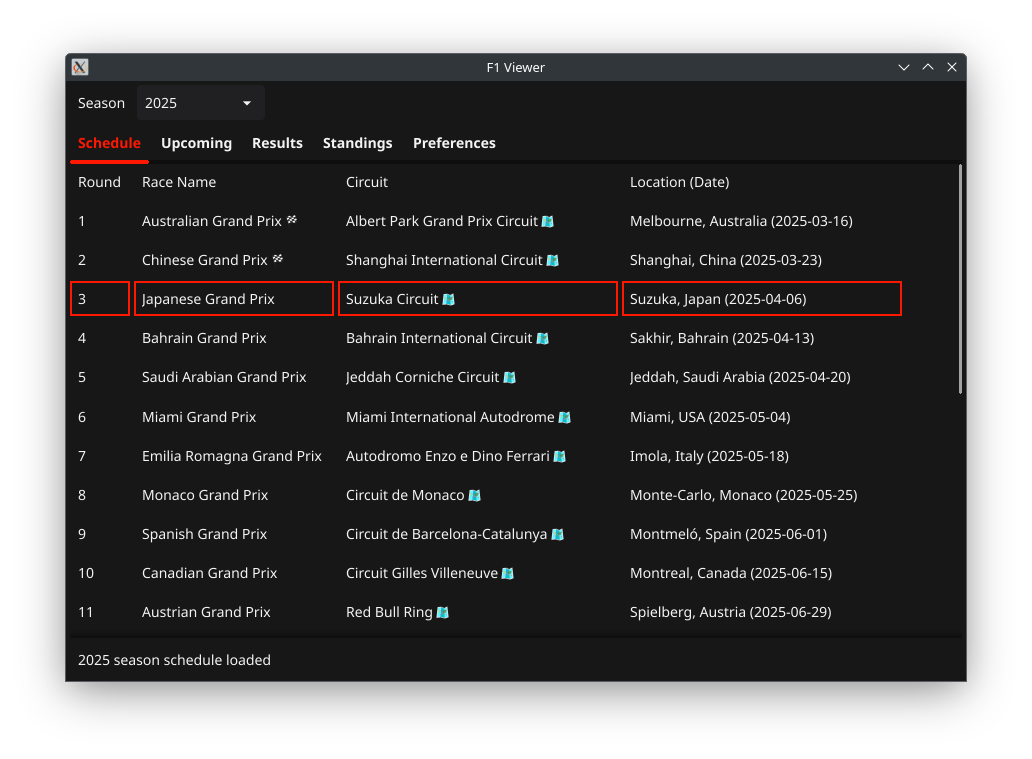
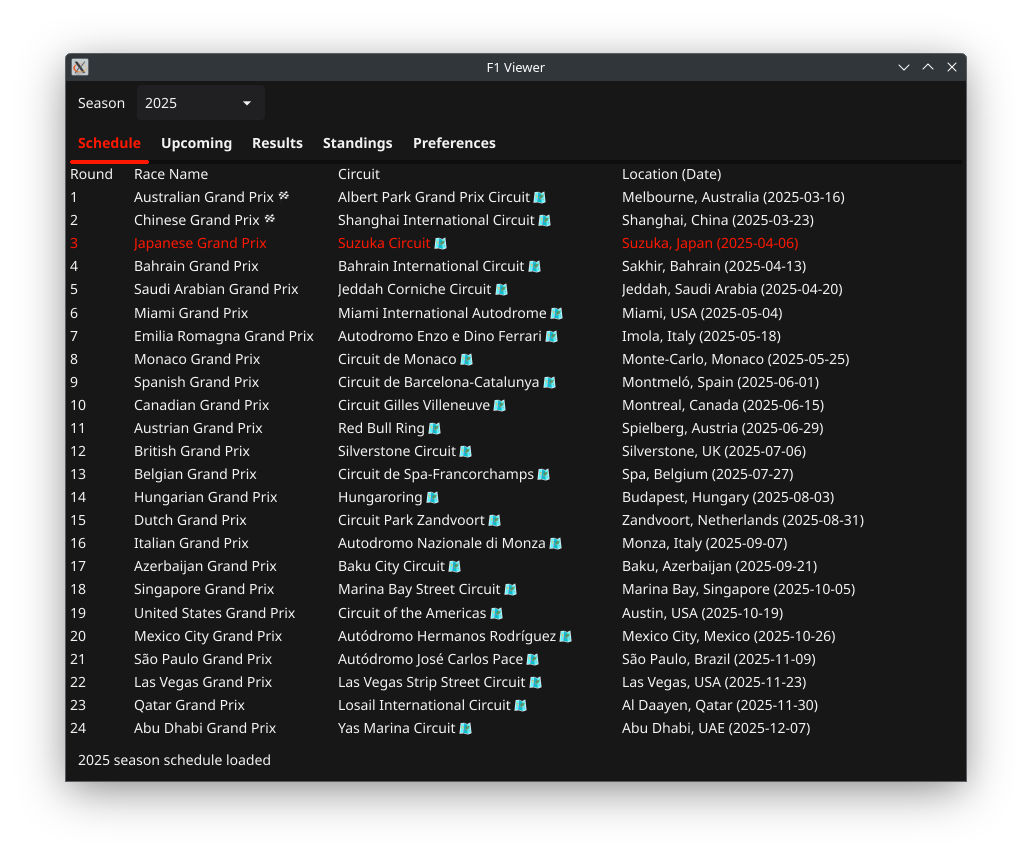
Fixed window size Removed theming from Watch on F1TV button Updated changelog and notes for v0.3.0

diff --git a/internal/ui/tabs/upcoming_tab.go b/internal/ui/tabs/upcoming_tab.go
@@ -3,7 +3,6 @@ package tabs
 import (
 	"encoding/json"
 	"fmt"
-	"image/color"
 	"time"
 
 	"github.com/mphartzheim/f1tray/internal/models"
@@ -11,7 +10,6 @@ import (
 	"github.com/mphartzheim/f1tray/internal/ui"
 
 	"fyne.io/fyne/v2"
-	"fyne.io/fyne/v2/canvas"
 	"fyne.io/fyne/v2/container"
 	"fyne.io/fyne/v2/layout"
 	"fyne.io/fyne/v2/theme"
@@ -30,21 +28,11 @@ func CreateUpcomingTab(state *models.AppState, parseFunc func([]byte) (string, [
 	url := fmt.Sprintf(models.UpcomingURL, year)
 
 	// Create the button for F1TV.
-	button := widget.NewButton("Watch on F1TV", func() {
+	watchButton := widget.NewButton("Watch on F1TV", func() {
 		if err := processes.OpenWebPage(models.F1tvURL); err != nil {
 			status.SetText("Failed to open F1TV URL.")
 		}
 	})
-
-	// Create a rounded rectangle overlay using canvas.NewRectangle.
-	// (This overlay is still used on the watch button.)
-	rect := canvas.NewRectangle(color.Transparent)
-	rect.StrokeColor = theme.Current().Color(theme.ColorNamePrimary, fyne.CurrentApp().Settings().ThemeVariant())
-	rect.StrokeWidth = 4
-	rect.CornerRadius = 5
-
-	// Overlay the rectangle on top of the button using container.NewStack.
-	watchButton := container.NewStack(button, rect)
 
 	refresh := func() bool {
 		data, err := processes.FetchData(url)

diff --git a/cmd/f1tray/main.go b/cmd/f1tray/main.go
@@ -43,6 +43,7 @@ func main() {
 	}
 
 	myWindow := myApp.NewWindow("F1 Viewer")
+	myWindow.SetFixedSize(true)
 	models.MainWindow = myWindow
 
 	// Build a slice of years (as strings) from the current year down to 1950.

diff --git a/RELEASE_NOTES.md b/RELEASE_NOTES.md
@@ -1,11 +1,35 @@
-# Release Notes v0.2.4 (Test Release)
-**Release Date:** 2025-03-30
+# Release Notes - v0.3.0 (2025-03-31)
 
----
+We're excited to announce version **v0.3.0** which brings a host of enhancements and fixes to improve your experience.
 
-### Notes
+## What's New
 
-- **Test Release for Automated Builds**  
-  This release is a test version aimed at automating our build process. We're refining our workflow and making sure everything—from PR creation to building—is as smooth as possible.
+- **Personalized Features:**  
+  We've begun rolling out the early stages of the Favorite Constructor feature to offer fans a more tailored experience.
 
-Enjoy the new features, and thank you for helping us perfect our automated build process!
+- **Enhanced Interactivity:**  
+  All cells in the application have been transformed into clickable labels, making navigation and information access more dynamic.
+
+## Bug Fixes
+
+- **Constructor Standings Restored:**  
+  We addressed issues in the Constructor standings tab that surfaced after implementing the new Favorite Drivers feature.
+
+- **F1TV Button Color:**  
+  The border color on the Watch on F1TV button has been corrected for a consistent and polished look.
+
+## Under the Hood
+
+- **Improved Code Reusability:**  
+  The driver name code has been refactored to boost maintainability and reusability.
+
+- **UI Adjustments:**  
+  Extra visibility on the Watch on F1TV button has been removed to streamline the interface and reduce potential issues.
+  The application window is now fixed in size to provide a more consistent and uniform user experience across platforms.
+
+## Automation
+
+- **Build & Release Automation:**  
+  Robust automation for building and releasing has been implemented, paving the way for smoother, faster, and more reliable deployments.
+
+Thank you for your continued support. We’re committed to enhancing your experience and welcome your feedback!

diff --git a/CHANGELOG.md b/CHANGELOG.md
@@ -7,13 +7,23 @@ and this project adheres to [Semantic Versioning](https://semver.org/spec/v2.0.0
 
 ---
 
-## [v0.2.4] - 2025-03-30
+## [v0.3.0] - 2025-03-31
 
-### Notes
+### New Features
+- **Favorite Constructor:** Launched the early stages of the innovative Favorite Constructor feature, offering fans a personalized experience.
+- **Interactive Cells:** Transformed all cells into clickable labels, creating a more dynamic and engaging interface.
 
-- Testing automations
-- Corrected Constructor standings tab after Favorite Drivers implementation broke it
-- Refactored Driver name code for reusability
+### Bug Fixes
+- **Constructor Standings:** Resolved critical issues in the Constructor standings tab caused by the new Favorite Drivers implementation, restoring full functionality.
+- **F1TV Button:** Fixed the border color bug on the Watch on F1TV button, ensuring a consistent and visually appealing design.
+
+### Refactoring
+- **Driver Name Code:** Streamlined and refactored the driver name code to boost reusability and maintainability.
+- **UI Cleanup:** Removed unnecessary visibility from the Watch on F1TV button to improve overall interface consistency and reduce complexity.
+- **Window Resizing:** Disabled window resizing to provide a more uniform and controlled user experience across platforms.
+
+### Automation
+- **Build & Release:** Implemented robust automation for building and releasing, paving the way for smoother, faster, and more reliable deployments.
 
 ---
 
